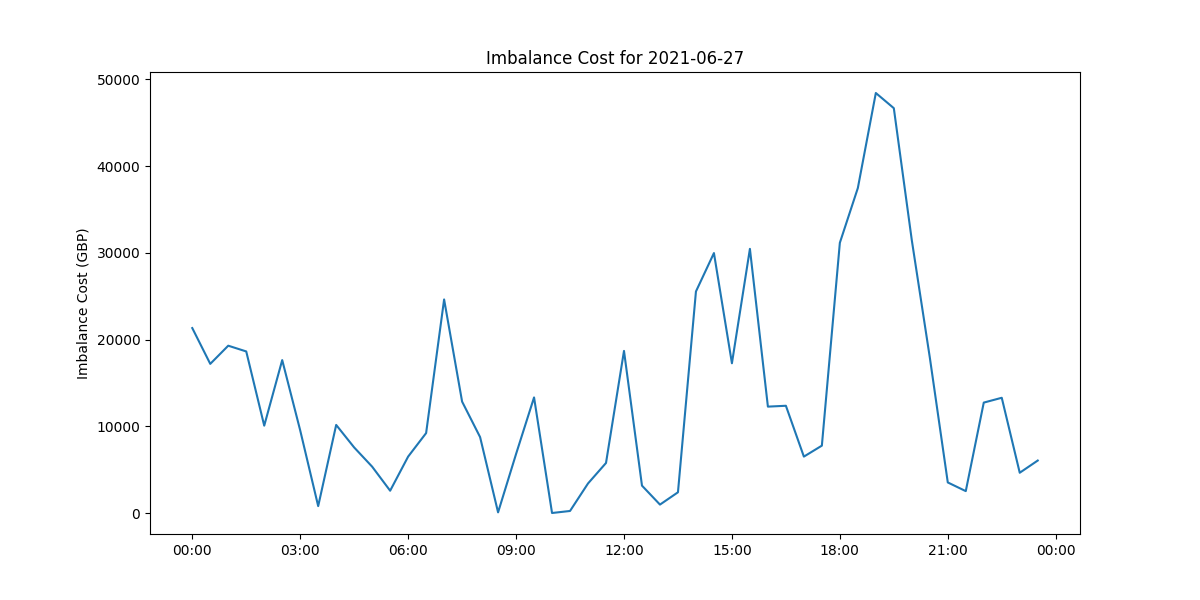
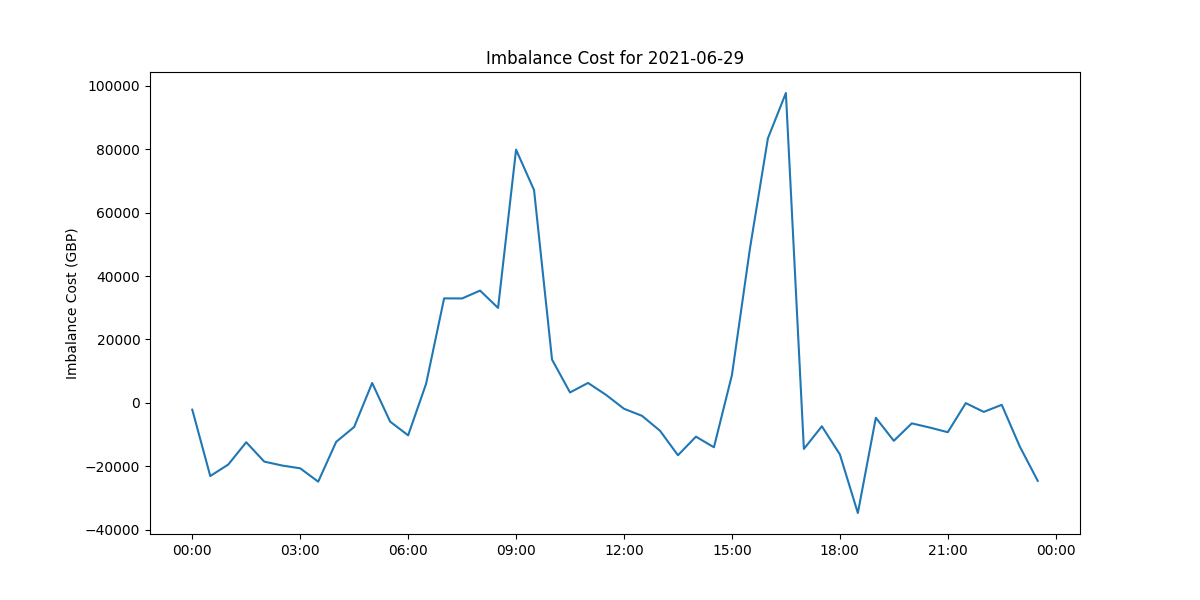
Corrected Imbalance cost calculation.

diff --git a/Elexon_Scrape_Analyse.py b/Elexon_Scrape_Analyse.py
@@ -38,6 +38,8 @@ def elexon_request_simple(url:str):
     elexon_df.dropna(inplace=True)
     return elexon_df
 
+
+
 def elexon_request_checked(url:str):
     """
     Returns pandas DataFrame from Elexon URL response having checked response is CSV format
@@ -82,7 +84,8 @@ def main():
                          left_on=["Settlement Date", "Settlement Period", "Imbalance Quantity Direction"],
                          right_on=["SettlementDate", "SettlementPeriod", "imbal_direction"])
     vol_pricedf["abs_imbal_quantity"]=vol_pricedf["Imbalance Quantity (MAW)"].abs()
-    vol_pricedf["imbal_cost"]=vol_pricedf["abs_imbal_quantity"]*vol_pricedf["ImbalancePriceAmount"]
+    # vol_pricedf["imbal_cost"]=vol_pricedf["abs_imbal_quantity"]*vol_pricedf["ImbalancePriceAmount"]
+    vol_pricedf["imbal_cost"]=vol_pricedf["Imbalance Quantity (MAW)"]*vol_pricedf["ImbalancePriceAmount"]
     total_imbal_vol=vol_pricedf["abs_imbal_quantity"].sum()
     total_imbal_cost=vol_pricedf["imbal_cost"].sum()
     imbal_cost_per_unit=total_imbal_cost/total_imbal_vol
